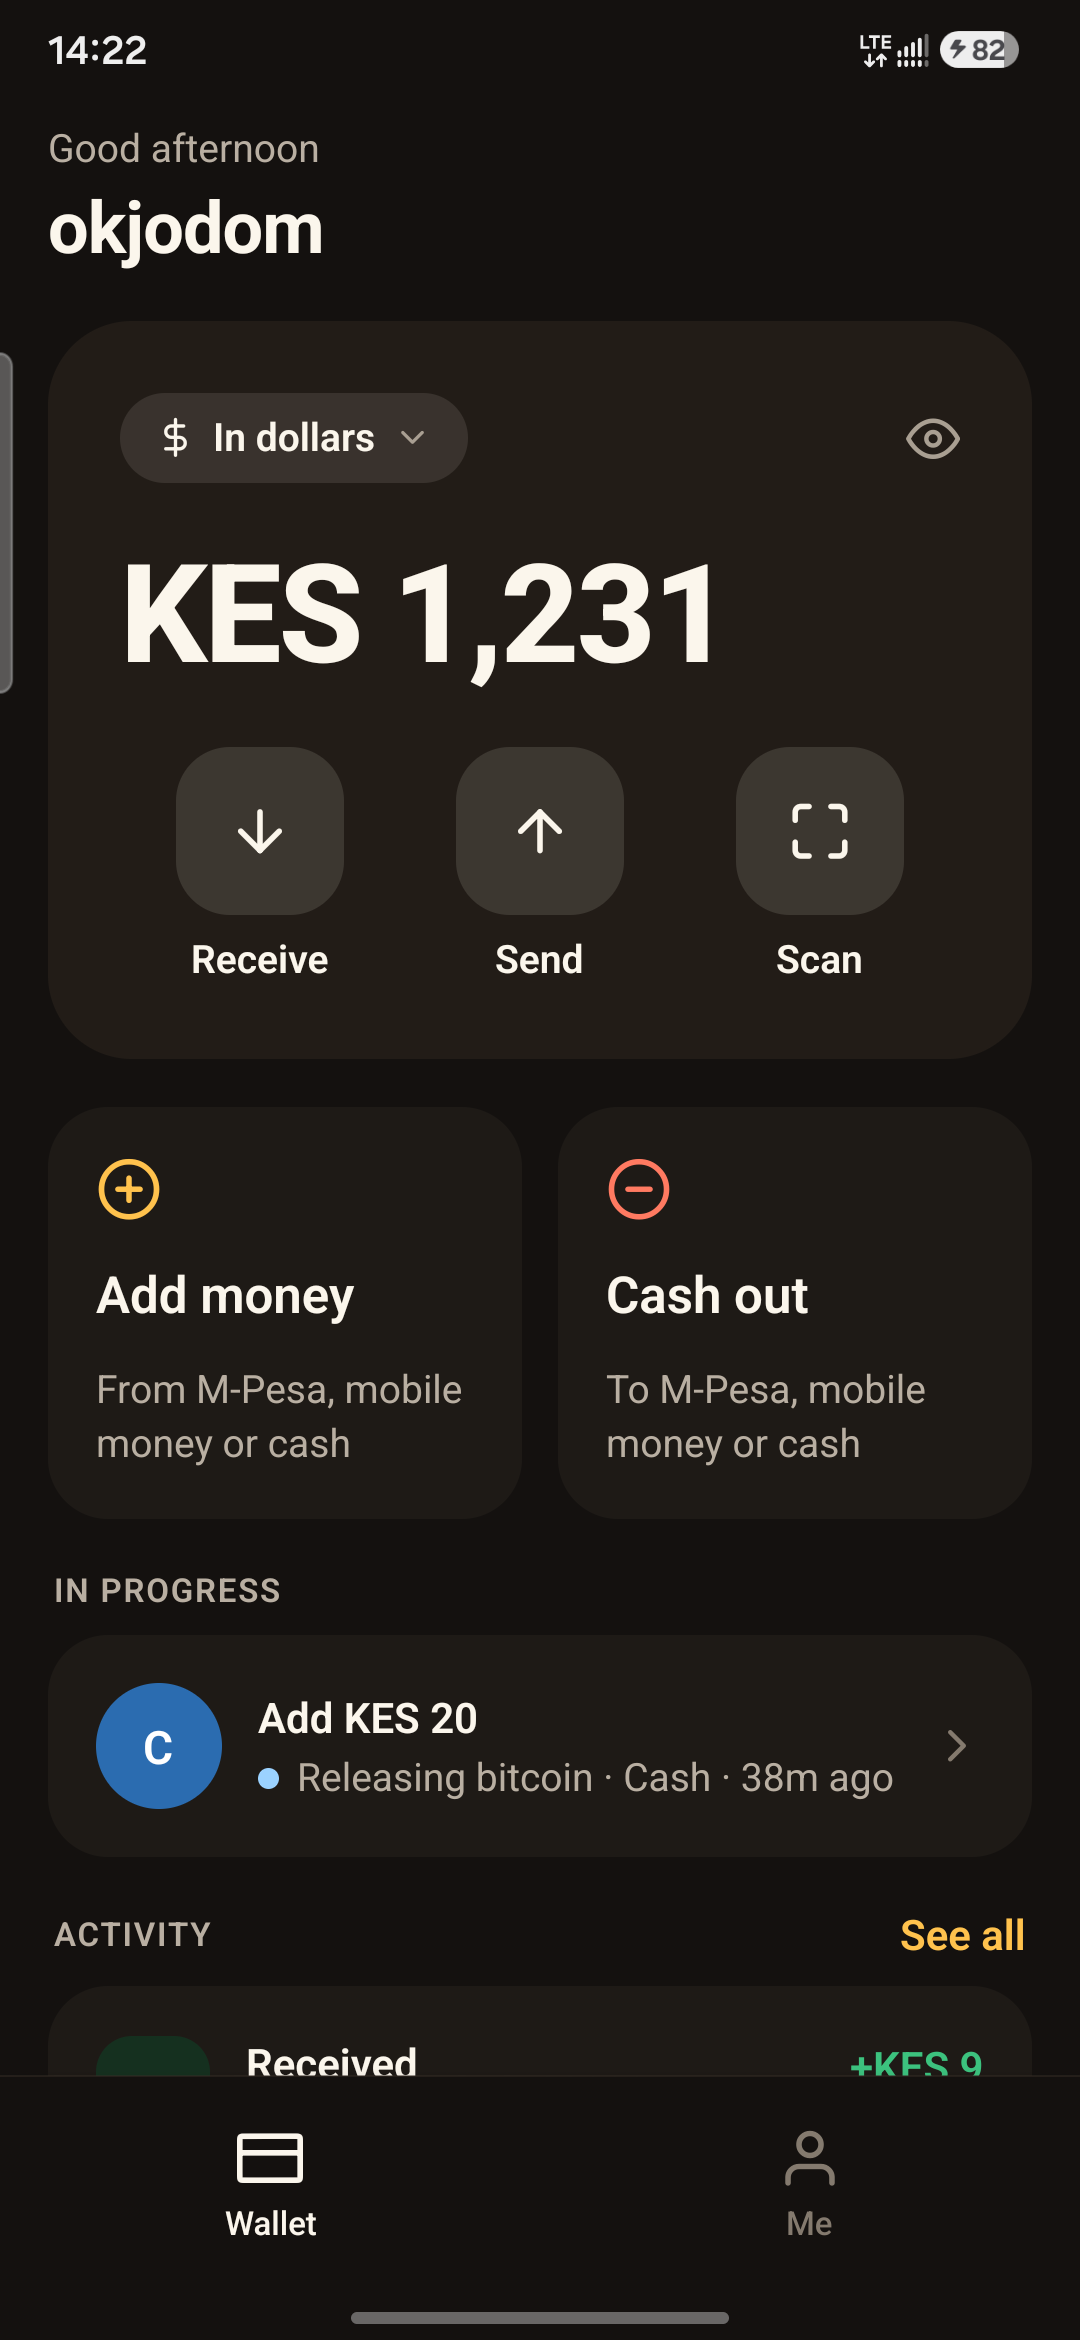
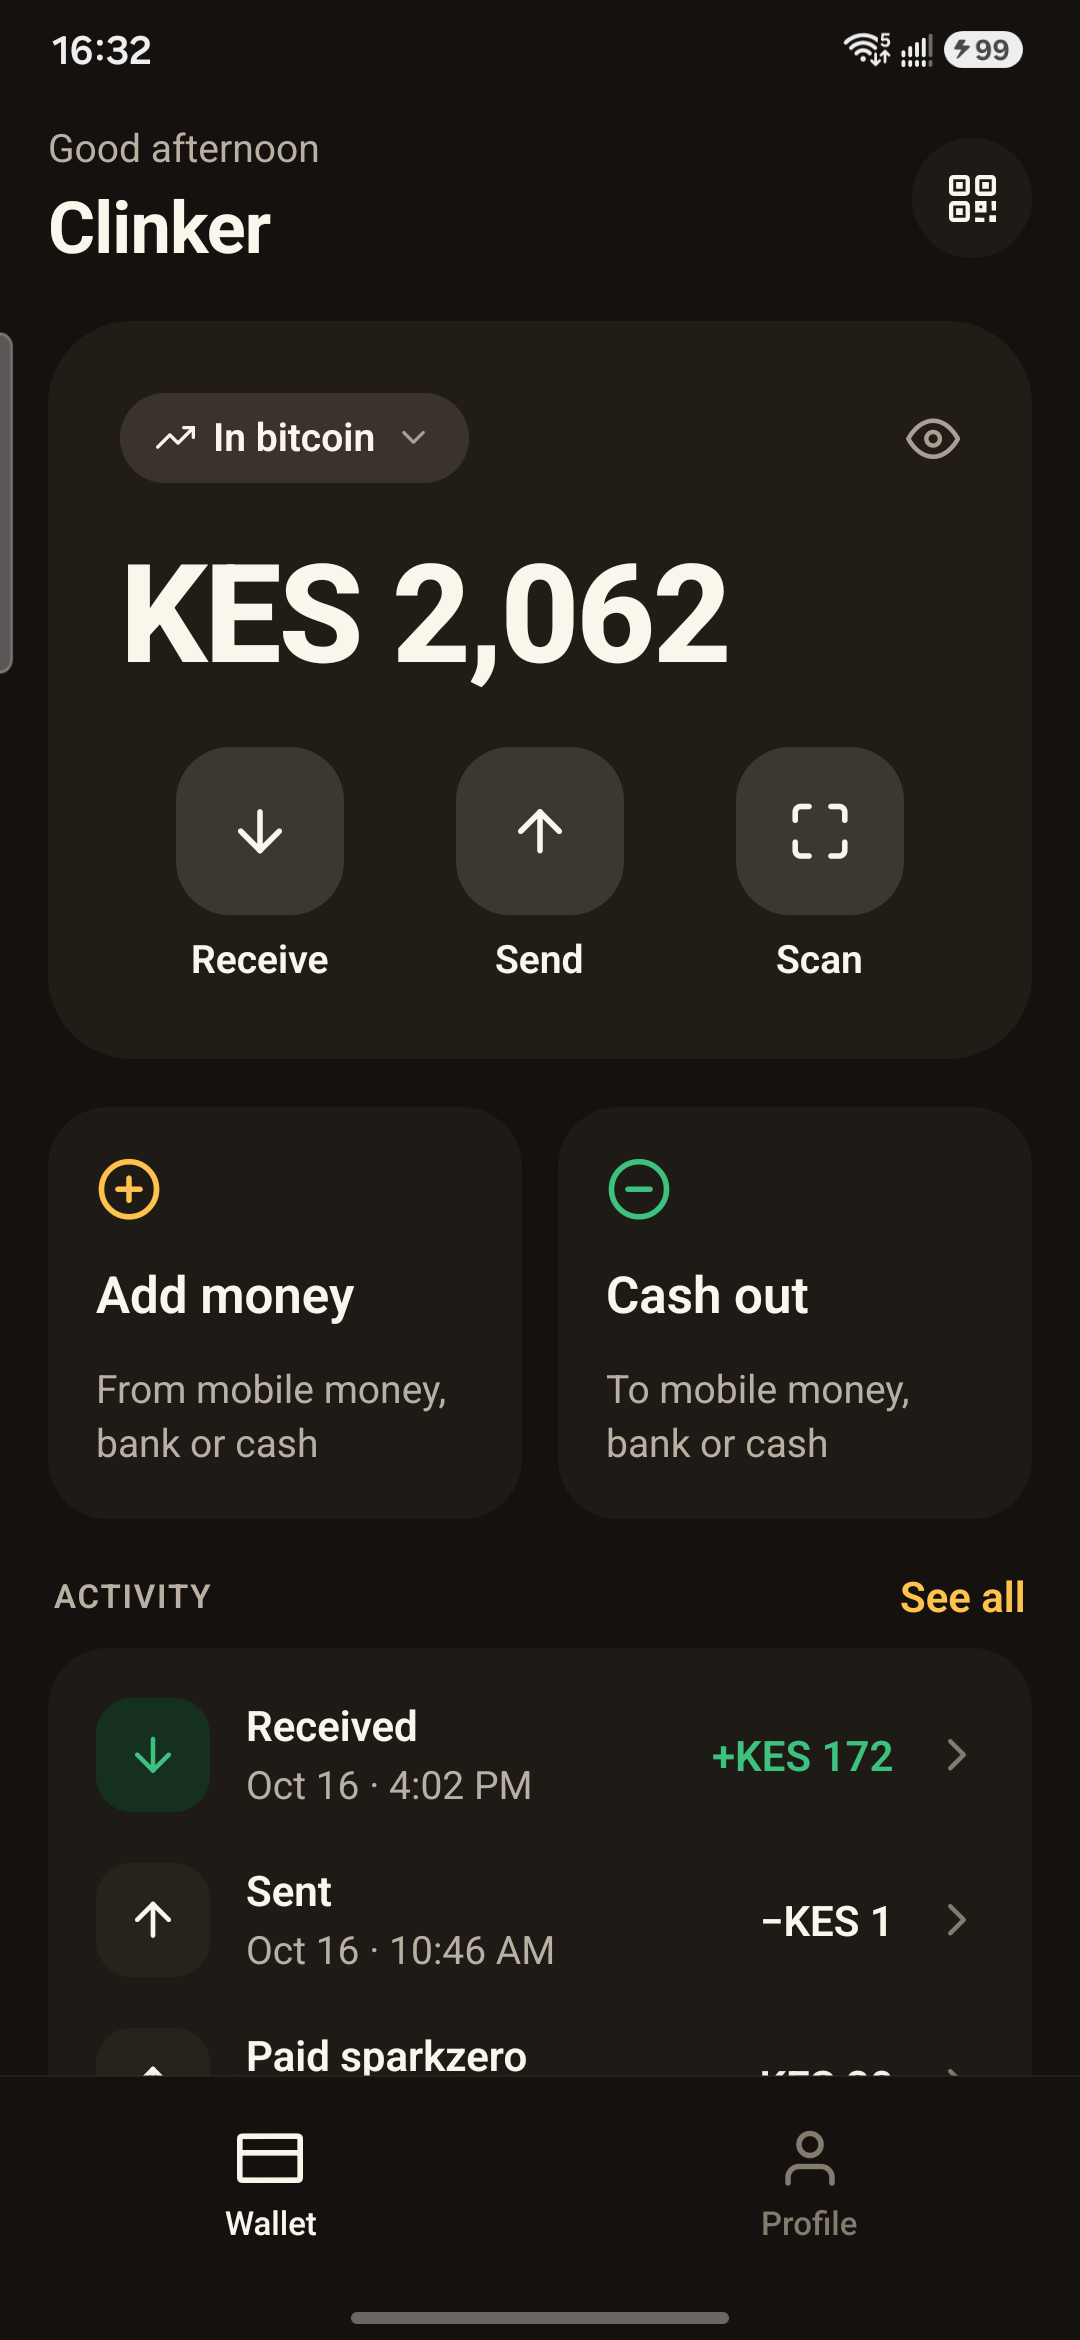
feat: enforce display name sentence case and refresh Clinker branding

diff --git a/src/store/session.ts b/src/store/session.ts
@@ -11,6 +11,7 @@ import { recoverIdentity, restoreLightningAddress } from "../services/identity";
 import { setRelays } from "../services/nostr";
 import * as wallet from "../services/wallet";
 import { deriveKeyRing, type KeyRing } from "../lib/keys";
+import { sentenceCaseName } from "../lib/displayName";
 import { useWallet } from "./wallet";
 
 export type Mode = "user" | "agent";
@@ -56,7 +57,7 @@ interface SessionState {
 
 export const useSession = create<SessionState>()(
   persist(
-    (set, get) => ({
+    (set, get): SessionState => ({
       phase: "loading",
       keys: null,
       mode: "user",
@@ -101,7 +102,7 @@ export const useSession = create<SessionState>()(
           keys,
           // A restored phrase is, by definition, already written down.
           backedUp: true,
-          profile: { name: found?.name ?? "", about: found?.about ?? "" },
+          profile: { name: sentenceCaseName(found?.name ?? ""), about: found?.about ?? "" },
           // Nothing found: ask for a name, as for a new wallet.
           needsName: !found?.name,
           recents: [],
@@ -121,7 +122,7 @@ export const useSession = create<SessionState>()(
         set({ relays: next });
       },
       setCurrency: (currency) => set({ currency }),
-      setProfile: (profile) => set({ profile }),
+      setProfile: (profile) => set({ profile: { ...profile, name: sentenceCaseName(profile.name) } }),
       toggleHideBalance: () => set({ hideBalance: !get().hideBalance }),
       togglePreferSats: () => set({ preferSats: !get().preferSats }),
       finishNaming: () => set({ needsName: false }),
@@ -145,7 +146,10 @@ export const useSession = create<SessionState>()(
         preferSats: s.preferSats,
         needsName: s.needsName,
       }),
-      onRehydrateStorage: () => () => useSession.setState({ hydrated: true }),
+      onRehydrateStorage: () => (state) => useSession.setState({
+        hydrated: true,
+        ...(state && { profile: { ...state.profile, name: sentenceCaseName(state.profile.name) } }),
+      }),
     },
   ),
 );

diff --git a/src/screens/onboarding.tsx b/src/screens/onboarding.tsx
@@ -113,7 +113,7 @@ export function PickNameScreen() {
       <View style={{ paddingHorizontal: space.xl, gap: space.lg, flex: 1 }}>
         <Text variant="display">What should people call you?</Text>
         <Text muted>Friends pay you by this name, and agents see it when you add money or cash out.</Text>
-        <Field value={name} onChangeText={setName} placeholder="Your name" autoFocus maxLength={48} returnKeyType="done" onSubmitEditing={done} />
+        <Field value={name} onChangeText={setName} placeholder="Your name" autoCapitalize="sentences" autoFocus maxLength={48} returnKeyType="done" onSubmitEditing={done} />
         {username.length >= 3 && (
           <View style={{ flexDirection: "row", alignItems: "center", gap: 6 }}>
             <Feather name="at-sign" size={14} color={c.primaryInk} />

diff --git a/src/lib/displayName.test.ts b/src/lib/displayName.test.ts
@@ -1,0 +1,17 @@
+import { sentenceCaseName } from "./displayName";
+import { profileTemplate } from "../protocol/events";
+
+it.each([
+  ["clinker", "Clinker"], ["CLINKER", "Clinker"], ["cLiNkEr", "Clinker"],
+  ["  JANE WANJIRU  ", "Jane wanjiru"], ["éLODIE", "Élodie"],
+  ["🪙 CLINKER", "🪙 Clinker"], ["", ""], ["   ", ""],
+])("normalizes display name %j to %j", (input, expected) => {
+  expect(sentenceCaseName(input)).toBe(expected);
+  expect(sentenceCaseName(expected)).toBe(expected);
+});
+
+it("publishes sentence case without changing the payment address or bio", () => {
+  const meta = { name: "cLiNkEr", about: "KES and USD", lud16: "clinker@breez.tips" };
+  expect(JSON.parse(profileTemplate(meta).content)).toEqual({ ...meta, name: "Clinker" });
+  expect(meta.name).toBe("cLiNkEr");
+});

diff --git a/src/protocol/events.ts b/src/protocol/events.ts
@@ -4,6 +4,7 @@
  * and escrow kernel actions, resolver for dispute resolutions.
  */
 import type { EventTemplate } from "nostr-tools/pure";
+import { sentenceCaseName } from "../lib/displayName";
 
 import {
   AGENT_D_TAG,
@@ -91,7 +92,7 @@ export function offerTemplate(offer: OfferContent): EventTemplate {
 }
 
 export function profileTemplate(meta: { name: string; about?: string; picture?: string; lud16?: string }): EventTemplate {
-  const clean = Object.fromEntries(Object.entries(meta).filter(([, v]) => v));
+  const clean = Object.fromEntries(Object.entries({ ...meta, name: sentenceCaseName(meta.name) }).filter(([, v]) => v));
   return { kind: KIND.profile, created_at: now(), tags: [], content: JSON.stringify(clean) };
 }
 

diff --git a/src/screens/me.tsx b/src/screens/me.tsx
@@ -181,7 +181,7 @@ export function MeScreen() {
         </ScrollView>
       </Sheet>
       <Sheet visible={nameOpen} onClose={() => setNameOpen(false)} title="Your name">
-        <Field value={name} onChangeText={setName} placeholder="What people see" maxLength={48} autoFocus />
+        <Field value={name} onChangeText={setName} placeholder="What people see" maxLength={48} autoCapitalize="sentences" autoFocus />
         <Button
           title="Save"
           onPress={() => {

diff --git a/src/screens/agent.tsx b/src/screens/agent.tsx
@@ -353,7 +353,7 @@ export function AgentSetupScreen() {
       </Section>
 
       <Section title="4 · Your name">
-        <Field value={name} onChangeText={setName} placeholder="e.g. Wanjiku's shop" maxLength={48} />
+        <Field value={name} onChangeText={setName} placeholder="e.g. Wanjiku's shop" autoCapitalize="sentences" maxLength={48} />
       </Section>
 
       <Collapsible title="More">

diff --git a/src/lib/displayName.ts b/src/lib/displayName.ts
@@ -1,0 +1,4 @@
+/** Display names use sentence case; payment usernames are handled separately. */
+export function sentenceCaseName(name: string): string {
+  return name.trim().toLowerCase().replace(/\p{L}/u, (letter) => letter.toUpperCase());
+}

diff --git a/scripts/compose-store-screenshots.py b/scripts/compose-store-screenshots.py
@@ -1,0 +1,56 @@
+#!/usr/bin/env python3
+"""Build 1080x1920 store artwork from real device captures, without changing app content.
+
+Run from the repository root: python3 scripts/compose-store-screenshots.py
+Only the Android status/navigation bars are cropped from the source captures.
+"""
+from pathlib import Path
+from PIL import Image, ImageDraw, ImageFont
+
+ROOT = Path(__file__).resolve().parent.parent
+OUT = ROOT / "docs/store-listing"
+INK, CREAM, GOLD = "#14110f", "#fbf6ec", "#ffb020"
+SLIDES = [
+    ("01-wallet", "01-home.png", "Money that\njust works.", "One wallet. Your own keys."),
+    ("02-receive", "02-receive.png", "A name.\nA way to get paid.", "Your username is your payment address."),
+    ("03-send", "09-send.png", "Send in\na few taps.", "Choose who. Enter how much."),
+    ("04-payment-qr", "11-payment-qr.png", "Your code.\nReady to scan.", "Show it. Save it. Get paid."),
+    ("05-agent", "07-desk.png", "Run your\nown desk.", "Help people add money or cash out."),
+    ("06-balance", "05-hold-in.png", "Dollars\nor bitcoin.", "Choose where to keep your balance."),
+    ("07-add-money", "03-add-money.png", "Add money.\nKeep moving.", "Through people near you."),
+    ("08-cash-out", "13-cash-out.png", "Cash out\nwith an agent.", "To mobile money, bank or cash."),
+]
+
+
+def font(size):
+    return ImageFont.truetype("Lato-Bold.ttf", size)
+
+
+def main():
+    OUT.mkdir(parents=True, exist_ok=True)
+    logo = Image.open(ROOT / "assets/brand/logo-tile.png").convert("RGBA").resize((72, 72), Image.Resampling.LANCZOS)
+    for name, source, headline, subtitle in SLIDES:
+        canvas = Image.new("RGB", (1080, 1920), CREAM)
+        draw = ImageDraw.Draw(canvas)
+        canvas.paste(logo, (72, 56), logo)
+        draw.text((166, 59), "clink", font=font(56), fill=INK)
+        draw.multiline_text((72, 164), headline, font=font(76), fill=INK, spacing=0)
+        draw.text((76, 350), subtitle, font=font(31), fill="#5e564c")
+        shot = Image.open(ROOT / "docs/screenshots" / source).convert("RGB")
+        # Captured on Samsung S23 at 1080x2340; preserve the complete app viewport.
+        if shot.size != (1080, 2340):
+            raise ValueError(f"Unexpected capture dimensions: {source} {shot.size}")
+        shot = shot.crop((0, 95, 1080, 2305))
+        shot = shot.resize((680, round(shot.height * 680 / shot.width)), Image.Resampling.LANCZOS)
+        x, y = (1080 - shot.width) // 2, 420
+        draw.rounded_rectangle((x - 10, y - 10, x + shot.width + 10, y + shot.height + 10), radius=38, fill="#362e26")
+        mask = Image.new("L", shot.size, 0)
+        ImageDraw.Draw(mask).rounded_rectangle((0, 0, shot.width - 1, shot.height - 1), radius=28, fill=255)
+        canvas.paste(shot, (x, y), mask)
+        draw.rectangle((76, 1872, 196, 1878), fill=GOLD)
+        canvas.save(OUT / f"{name}.png", optimize=True)
+        print(OUT / f"{name}.png")
+
+
+if __name__ == "__main__":
+    main()

diff --git a/README.md b/README.md
@@ -14,7 +14,7 @@
 
 **Money that just works.** Download it, pick a name, and you can get paid, pay anyone, and add money or cash out to mobile money, bank or cash through people near you. When money lands, your phone goes *clink*.
 
-Under the hood it's a bitcoin wallet only you hold, with no bank, account or server in the middle. That part is there for anyone who goes looking (Me → *Your keys, your money*), not something you need to understand to use it.
+Under the hood it's a bitcoin wallet only you hold, with no bank, account or server in the middle. That part is there for anyone who goes looking (Profile → *Your keys, your money*), not something you need to understand to use it.
 
 Clink is a mobile client for the [Pontmore protocol](https://github.com/pontmore/protocol). Every swap is coordinated in public, signed Nostr events, and the bitcoin is locked in a Spark HTLC between the two people trading. Nobody else ever holds it. There is no Clink server, no account and no sign-up: the app talks to Nostr relays and to your own [Breez](https://breez.technology) Spark wallet, and nothing else.
 
@@ -31,25 +31,34 @@ Clink is a mobile client for the [Pontmore protocol](https://github.com/pontmore
 
 ## Screens
 
-### Personal mode: one balance, dollars or bitcoin, USDT/USDC in and out
+### Personal mode: pay, get paid, add money and cash out
 
-<p align="center"><img src="docs/user-mode.png" alt="Wallet, receive, add money, get USDT or USDC, and the dollars or bitcoin choice" width="100%" /></p>
+<p align="center"><img src="docs/user-mode.png" alt="Clinker wallet, receive at clinker@breez.tips, send, add money and cash out with an available agent" width="100%" /></p>
 
 ### Agent mode: run a swap desk from your phone
 
-<p align="center"><img src="docs/agent-mode.png" alt="Agent desk, your offer, more settings and a finished swap" width="100%" /></p>
+<p align="center"><img src="docs/agent-mode.png" alt="An open Clinker agent desk, offer settings, agent QR and Profile" width="100%" /></p>
+
+Fresh device captures use **Clinker** and **clinker@breez.tips**. Captioned 1080 × 1920 images for store listings are in [docs/store-listing](docs/store-listing/README.md).
 
 <details>
 <summary>All screenshots</summary>
 
-| | | | | |
-| --- | --- | --- | --- | --- |
-| <img src="docs/screenshots/01-home.png" width="160" alt="Wallet home: one balance, held in dollars"> | <img src="docs/screenshots/02-receive.png" width="160" alt="Receive with your username"> | <img src="docs/screenshots/03-add-money.png" width="160" alt="Add money from M-Pesa through an agent"> | <img src="docs/screenshots/04-stablecoin.png" width="160" alt="Get paid in USDT or USDC"> | <img src="docs/screenshots/05-hold-in.png" width="160" alt="Keep your money in dollars or bitcoin"> |
-| Wallet | Receive | Add money | USDT or USDC | Dollars or bitcoin |
-| <img src="docs/screenshots/06-me.png" width="160" alt="Me: username, earn as an agent, settings"> | <img src="docs/screenshots/07-desk.png" width="160" alt="Agent desk"> | <img src="docs/screenshots/08-offer.png" width="160" alt="Your offer"> | <img src="docs/screenshots/09-offer-more.png" width="160" alt="More offer settings"> | <img src="docs/screenshots/10-swap-done.png" width="160" alt="A finished swap"> |
-| Me | Agent desk | Your offer | More settings | Finished swap |
+| Wallet | Receive | Add money | USDT or USDC |
+| --- | --- | --- | --- |
+| <img src="docs/screenshots/01-home.png" width="180" alt="Clinker wallet"> | <img src="docs/screenshots/02-receive.png" width="180" alt="Receive at clinker@breez.tips"> | <img src="docs/screenshots/03-add-money.png" width="180" alt="Add KES 20 with the live Clinker agent"> | <img src="docs/screenshots/04-stablecoin.png" width="180" alt="Receive USDT or USDC"> |
 
-Composites are built with `python3 scripts/compose-screenshots.py docs/user-mode.png "Wallet=docs/screenshots/01-home.png" …`.
+| Dollars or bitcoin | Profile | Agent desk | Your offer |
+| --- | --- | --- | --- |
+| <img src="docs/screenshots/05-hold-in.png" width="180" alt="Choose dollars or bitcoin"> | <img src="docs/screenshots/06-profile.png" width="180" alt="Clinker profile"> | <img src="docs/screenshots/07-desk.png" width="180" alt="Open agent desk"> | <img src="docs/screenshots/08-offer.png" width="180" alt="Agent offer and fee limits"> |
+
+| Send | Activity | Payment QR | Agent QR |
+| --- | --- | --- | --- |
+| <img src="docs/screenshots/09-send.png" width="180" alt="Choose who to pay"> | <img src="docs/screenshots/10-activity.png" width="180" alt="Activity search and filter"> | <img src="docs/screenshots/11-payment-qr.png" width="180" alt="Clinker payment QR"> | <img src="docs/screenshots/12-agent-qr.png" width="180" alt="Clinker agent QR"> |
+
+[Cash out with Clinker](docs/screenshots/13-cash-out.png) shows the matching sell flow with an available agent.
+
+Composites are built with `python3 scripts/compose-screenshots.py`; store artwork is built with `python3 scripts/compose-store-screenshots.py`.
 
 </details>
 

diff --git a/docs/store-listing/README.md b/docs/store-listing/README.md
@@ -1,0 +1,53 @@
+# Clinker store screenshots
+
+Eight captioned **1080 × 1920 PNGs**, using Clink's cream, ink and gold palette.
+The demo profile is **Clinker** and its payment address is **clinker@breez.tips**.
+
+| Wallet | Receive | Send | Payment QR |
+| --- | --- | --- | --- |
+| [![Wallet](01-wallet.png)](01-wallet.png) | [![Receive](02-receive.png)](02-receive.png) | [![Send](03-send.png)](03-send.png) | [![Payment QR](04-payment-qr.png)](04-payment-qr.png) |
+
+| Agent desk | Balance choice | Add money | Cash out |
+| --- | --- | --- | --- |
+| [![Agent desk](05-agent.png)](05-agent.png) | [![Dollars or bitcoin](06-balance.png)](06-balance.png) | [![Add money](07-add-money.png)](07-add-money.png) | [![Cash out](08-cash-out.png)](08-cash-out.png) |
+
+## Captures
+
+Captured on 16 October 2026 from a Samsung Galaxy S23 at **1080 × 2340**.
+Sources are in [../screenshots](../screenshots). App content, balances, rates,
+contacts and QR values are genuine device captures. The artwork adds a frame
+and captions and crops the Android status/navigation bars; it does not change
+app content.
+
+Most screens use **Clink Dev** with the Clinker demo identity. Add money and
+Cash out were captured in the production installation acting as the customer,
+with the live Clinker desk selected at **KES 20**. Both show an available agent
+and an enabled Continue button. These captures stop before submitting a swap.
+The desk used manual acceptance during capture and was then closed, with its
+original auto-accept setting restored.
+
+The raw desk screenshot shows the desk open at capture time. The screenshots
+are examples, not a promise of ongoing agent availability or fixed rates.
+Android notification icons were temporarily hidden and restored afterward.
+No recovery words or private keys were captured.
+
+## Rebuild
+
+From the repository root, with Python and Pillow installed:
+
+```sh
+python3 scripts/compose-store-screenshots.py
+python3 scripts/compose-screenshots.py docs/user-mode.png \
+  "Wallet=docs/screenshots/01-home.png" \
+  "Receive=docs/screenshots/02-receive.png" \
+  "Send=docs/screenshots/09-send.png" \
+  "Add money=docs/screenshots/03-add-money.png" \
+  "Cash out=docs/screenshots/13-cash-out.png"
+python3 scripts/compose-screenshots.py docs/agent-mode.png \
+  "Agent desk=docs/screenshots/07-desk.png" \
+  "Your offer=docs/screenshots/08-offer.png" \
+  "Agent QR=docs/screenshots/12-agent-qr.png" \
+  "Profile=docs/screenshots/06-profile.png"
+```
+
+`zapstore.yaml` uses the captioned images for future store publications.

diff --git a/docs/brand.md b/docs/brand.md
@@ -50,6 +50,15 @@ Never show "up" or "down" by colour alone. Red means *up* in much of East Asia, 
 - The stable balance is **Dollars**; the other is **Bitcoin**. Show both in local currency first. "Holds its value in dollars", never "your money never changes".
 - Celebrate money arriving ("Clink!"), not spending.
 
+## Clinker
+
+**Clinker** is Clink's mascot name and the demo profile used for screenshots.
+The display name is **Clinker**; the payment username is **clinker**, at
+**clinker@breez.tips**. Display names use sentence case; payment usernames stay lowercase.
+
+Use fresh device captures from `docs/screenshots/`. The store artwork and its
+rebuild instructions are in [store-listing/README.md](store-listing/README.md).
+
 ## Names and symbols to avoid in these markets
 
 - Pigs and piggy banks: offensive in Indonesia, Pakistan, Malaysia, North Africa.
